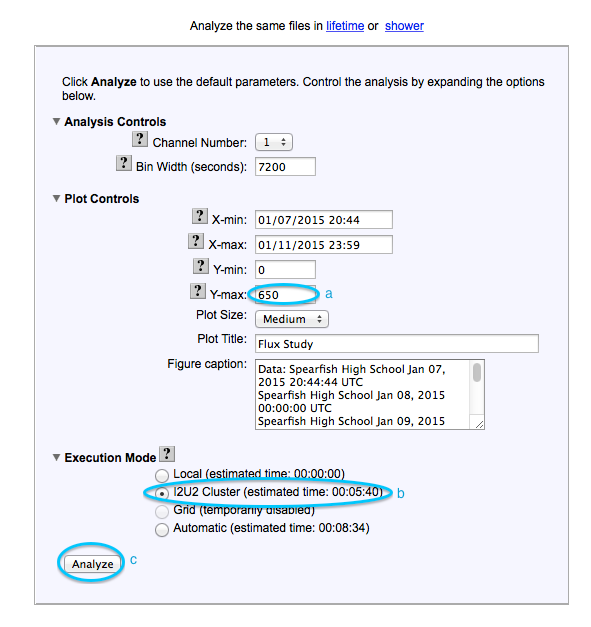
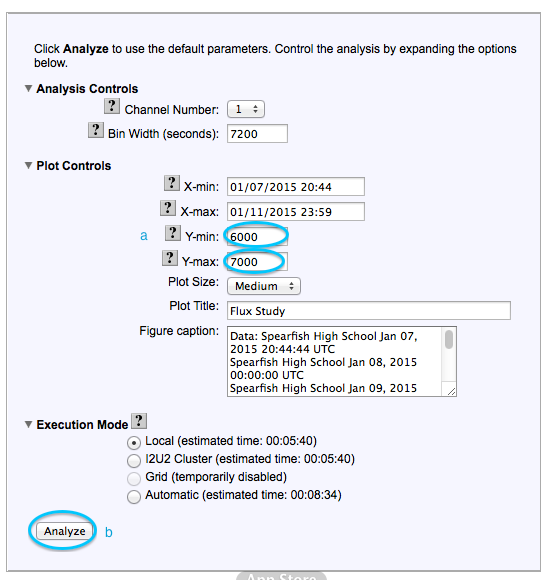
Fixing Flux Step by Step

Changed region(s): [[0.0, 0.0, 0.9909, 1.0]]

diff --git a/cosmic/src/jsp/analysis-flux/tryit.html b/cosmic/src/jsp/analysis-flux/tryit.html
@@ -100,9 +100,8 @@ We will run the analysis on our local computer. See Execution Mode below.
 
 
 <tr><td colspan="2" height="16"><A Name="plot_controls2"> </A></td></tr>
-<tr><td valign="top">Step 8:</td><td>Try varying some of the plot controls.<BR>a) Enter <b>650</b> as Y-max<BR>
-b) Try executing on the I2U2 Cluster instead of on the local server and see if take more or less time.<br>
-c) Click <b>Analyze</b>.</td></tr>
+<tr><td valign="top">Step 8:</td><td>Try varying some of the plot controls.<br>a) Enter <b>6000</b> as Y-min and <b>7000</b> as Y-max.<br>
+b) Click <b>Analyze</b>.</td></tr>
 <tr><td colspan="2"><IMG border="1" src="../graphics/tryPerf/choose_parameters2_flux.png"></td></tr>
 
 
